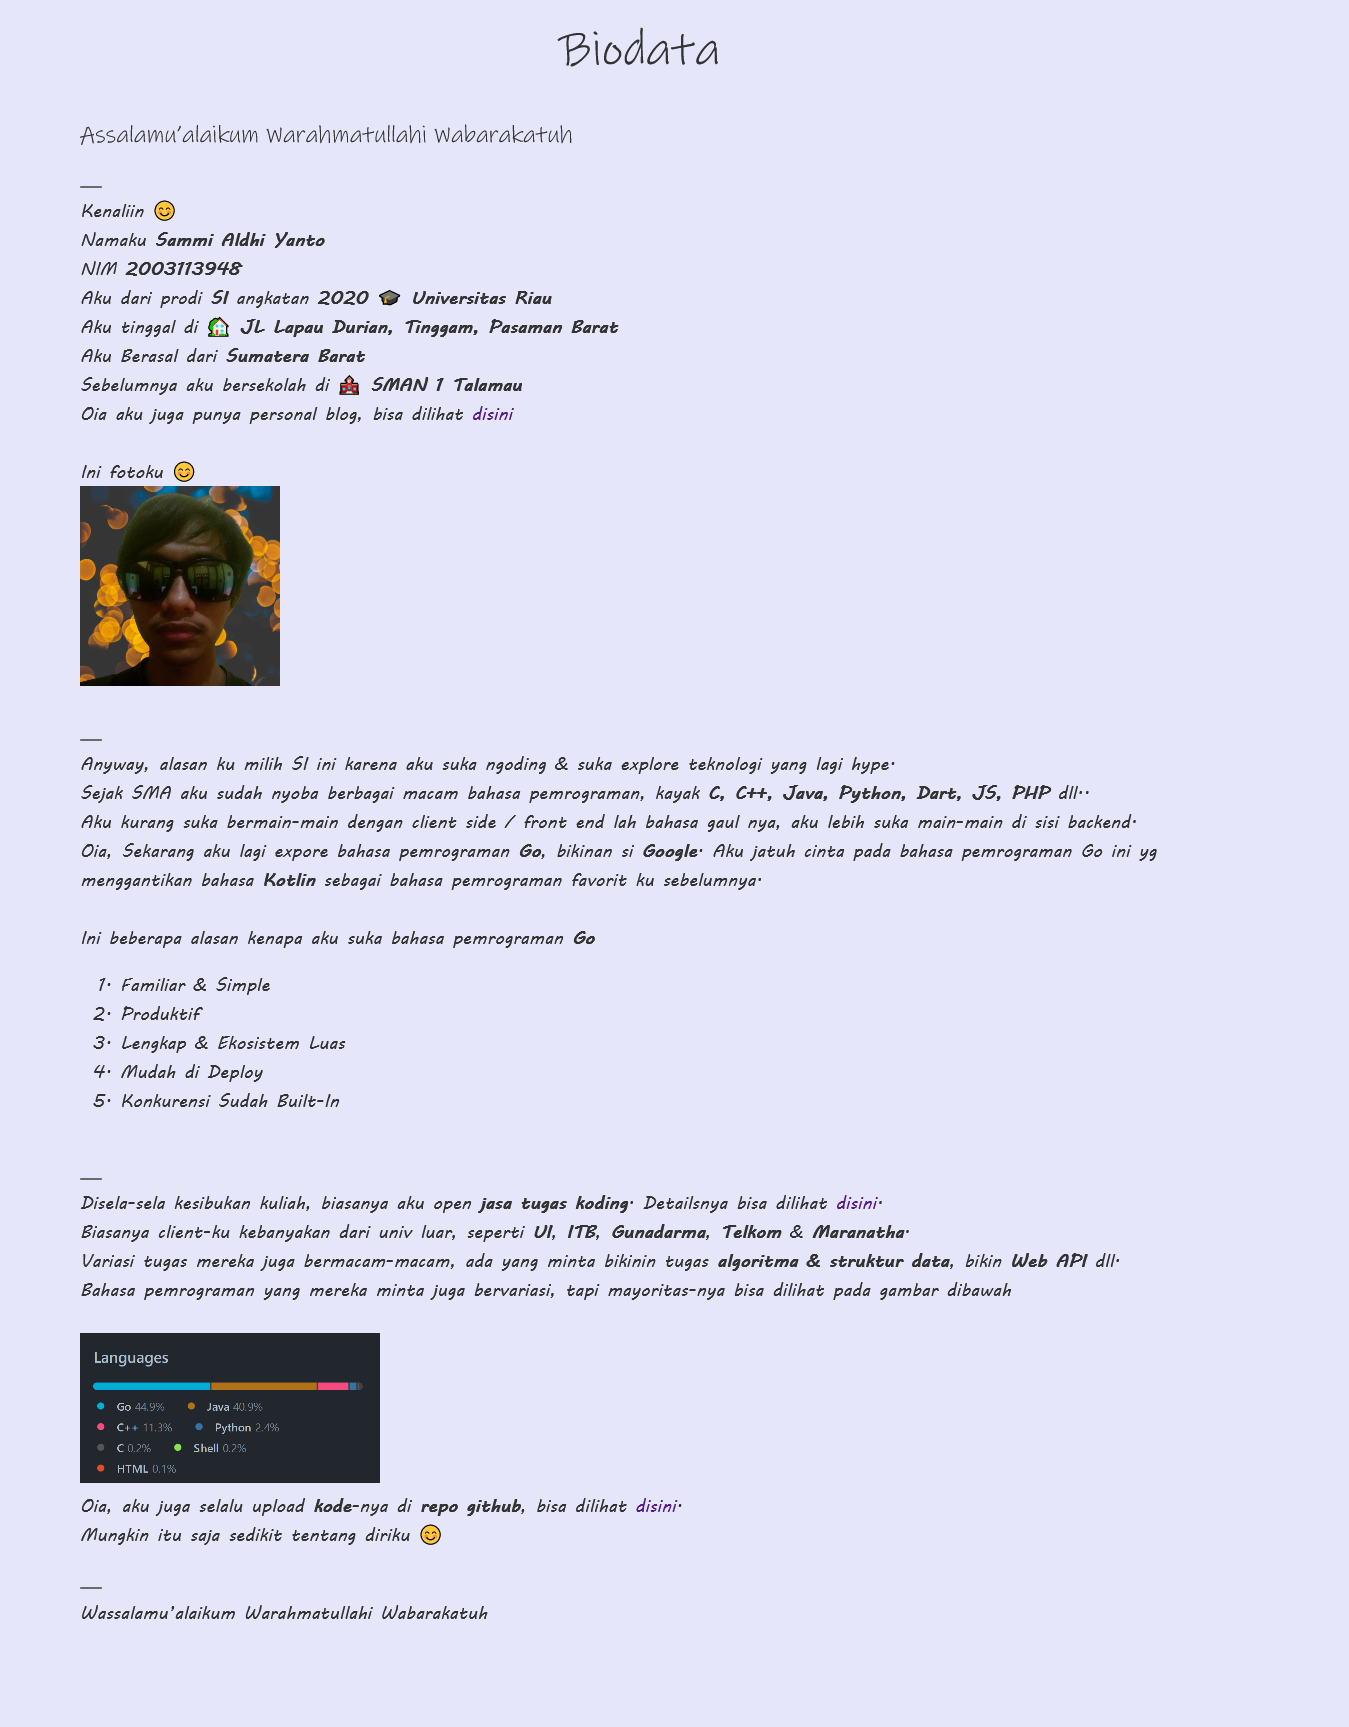
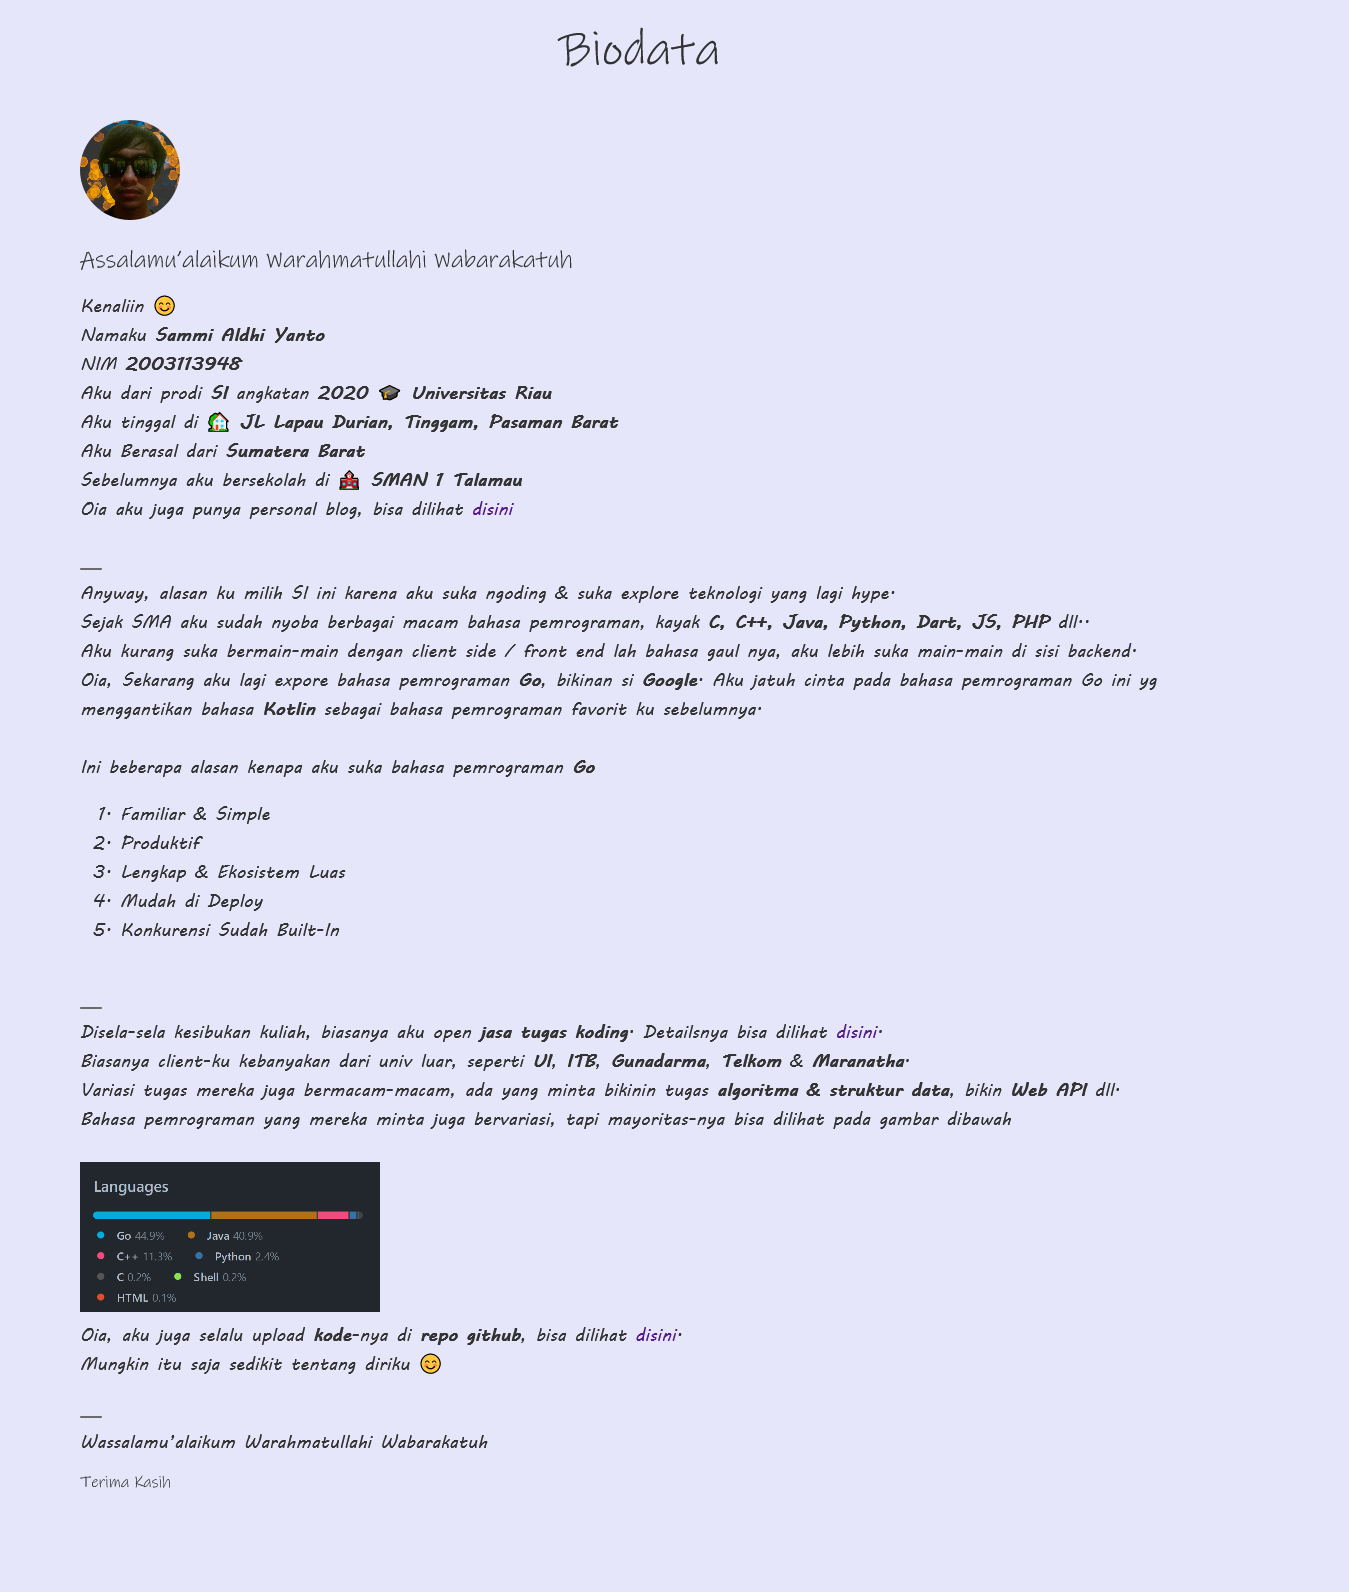
add

diff --git a/content/posts/s3-papsi-tugas-1.md b/content/posts/s3-papsi-tugas-1.md
@@ -41,10 +41,15 @@ body {
 <body bgcolor="#E6E6FA" style="font-family: Ink Free; color: #333333">
   <center><font size="9">Biodata</font></center>
   <br><br>
+  
+  <div style="padding-left: auto;">
+    <img src="https://raw.githubusercontent.com/SemmiDev/Niage/master/sam.png" width="100px" height="100px" style="border-radius: 50%;">
+  </div>
+  <br>
+
   <font size="5">Assalamu’alaikum Warahmatullahi Wabarakatuh</font>
-  <br><br>  
+  <br>
   <p>
-    <hr width="20px" align="left" color="#6B6B6B"> 
     <font size="4" face="MV Boli"> 
       Kenaliin 😊 <br>
       Namaku <b>Sammi Aldhi Yanto</b><br>
@@ -54,10 +59,6 @@ body {
       Aku Berasal dari <b>Sumatera Barat</b><br>
       Sebelumnya aku bersekolah di 🏫 <b>SMAN 1 Talamau</b> <br>
       Oia aku juga punya personal blog, bisa dilihat <a href="https://sammidev.netlify.app/" style="text-decoration: none;">disini</a>
-      <br><br>
-      Ini fotoku 😊
-      <div class="card">
-      <img src="https://raw.githubusercontent.com/SemmiDev/Niage/master/sam.png" width="200px" height="200px"> 
       <br><br>
     </font> 
   </p>
@@ -99,6 +100,8 @@ body {
       Wassalamu’alaikum Warahmatullahi Wabarakatuh
     </font>   
   </p>
+
+  <marquee behavior="alternate">Terima Kasih</marquee> <br>
 </body>
 </html>
 ```
